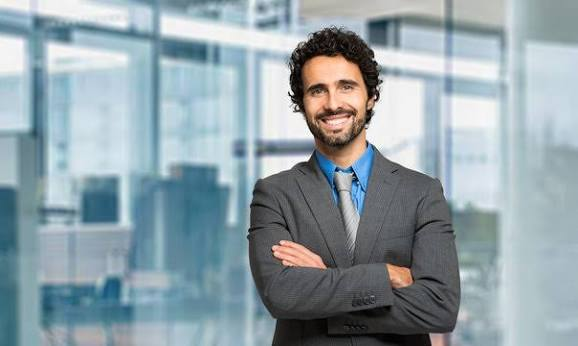
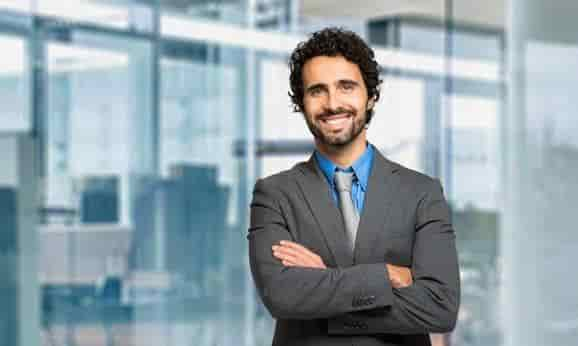
Complete rafting trips page layout

diff --git a/wwr/styles/rafting.css b/wwr/styles/rafting.css
@@ -21,11 +21,11 @@ body {
     line-height: 1.6;
 }
 
-/* MAIN PAGE WIDTH */
 header,
 main,
 footer {
-    width: 840px;
+    width: 100%;
+    max-width: 840px;
     margin: 0 auto;
 }
 
@@ -345,30 +345,6 @@ footer .socialmedia img {
 
 .contact-form button:hover {
     opacity: 0.85;
-}
-
-/* TRIPS PAGE */
-
-.trips {
-    display: grid;
-    grid-template-columns: repeat(3, 1fr);
-    gap: 20px;
-}
-
-.trips article {
-    text-align: center;
-    padding: 15px;
-    background-color: var(--accent1-color);
-}
-
-.trips article img {
-    width: 100%;
-    height: 180px;
-    object-fit: cover;
-}
-
-.trips article h2 {
-    margin: 10px 0;
 }
 
 /* HOME PAGE HERO CONTENT */
@@ -782,4 +758,87 @@ footer .socialmedia img {
 
 .trips-cta a:hover {
     opacity: 0.85;
+}
+
+.team {
+    text-align: center;
+    margin: 2rem auto;
+    padding: 1rem;
+}
+
+.team h2 {
+    text-align: center;
+    margin-bottom: 1.5rem;
+}
+
+.team-members {
+    display: grid;
+    grid-template-columns: repeat(3, 1fr);
+    gap: 1.5rem;
+    max-width: 1000px;
+    margin: 0 auto;
+}
+
+.team-members figure {
+    margin: 0;
+}
+
+.team-members img {
+    width: 100%;
+    max-width: 280px;
+    height: 220px;
+    object-fit: cover;
+}
+
+.team-members figcaption {
+    margin-top: 0.75rem;
+    font-weight: bold;
+}
+
+.trip {
+    display: flex;
+    align-items: center;
+    gap: 2rem;
+    margin: 2rem auto;
+    max-width: 1000px;
+    padding: 1rem;
+}
+
+.trip img {
+    width: 40%;
+    height: 250px;
+    object-fit: cover;
+}
+
+.trip-info {
+    flex: 1;
+}
+
+/* RESPONSIVE TRIPS PAGE */
+
+@media screen and (max-width: 700px) {
+    .trips {
+        grid-template-columns: 1fr;
+    }
+
+    .trip-table {
+        overflow-x: auto;
+    }
+
+    header {
+        grid-template-columns: 1fr;
+        justify-items: center;
+        gap: 15px;
+    }
+
+    header nav ul {
+        justify-content: center;
+        flex-wrap: wrap;
+        gap: 8px;
+    }
+
+    .trip-table th,
+    .trip-table td {
+        padding: 8px;
+    }
 }

diff --git a/wwr/trips.html b/wwr/trips.html
@@ -48,13 +48,12 @@
 
         </section>
 
-
         <!-- TRIP DESCRIPTIONS -->
         <section class="trips">
 
             <article>
-
-                <img src="images/rafting-client.jpg" alt="Rafters enjoying a white water adventure">
+                <img src="images/rafting-family.jpg"
+                  alt="Family enjoying a river rafting adventure">
 
                 <h2>Family River Adventure</h2>
 
@@ -65,15 +64,10 @@
                     beauty of the river.
                 </p>
 
-                <p>
-                    <strong>Difficulty:</strong> Easy
-                </p>
-
+                <p><strong>Difficulty:</strong> Easy</p>
             </article>
 
-
             <article>
-
                 <img src="images/rafting-hero.jpg" alt="Rafters navigating exciting white water">
 
                 <h2>White Water Challenge</h2>
@@ -85,15 +79,10 @@
                     more excitement.
                 </p>
 
-                <p>
-                    <strong>Difficulty:</strong> Moderate
-                </p>
-
+                <p><strong>Difficulty:</strong> Moderate</p>
             </article>
 
-
             <article>
-
                 <img src="images/rafting-client.jpg" alt="Experienced rafters navigating a river">
 
                 <h2>Extreme River Expedition</h2>
@@ -105,10 +94,7 @@
                     experienced rafters.
                 </p>
 
-                <p>
-                    <strong>Difficulty:</strong> Advanced
-                </p>
-
+                <p><strong>Difficulty:</strong> Advanced</p>
             </article>
 
         </section>
@@ -171,6 +157,7 @@
             </p>
 
             <a href="contact.html">Contact Adventure Rapids Rafting</a>
+
 
         </section>
 

diff --git a/wwr/index.html b/wwr/index.html
@@ -55,8 +55,8 @@
         <section class="home-grid">
 
             <div>
-                <img src="images/rafting-client.jpg"
-                  alt="Rafting client enjoying a river adventure">
+                <img src="images/rafting-family.jpg"
+                  alt="Family enjoying a white water rafting adventure">
             </div>
 
             <div>
@@ -81,8 +81,8 @@
             </div>
 
             <div>
-                <img src="images/rafting-client.jpg"
-                  alt="Rafter enjoying an outdoor river experience">
+                <img src="images/rafting-adventure.jpg"
+                  alt="Rafters navigating an exciting river adventure">
             </div>
 
         </section>
